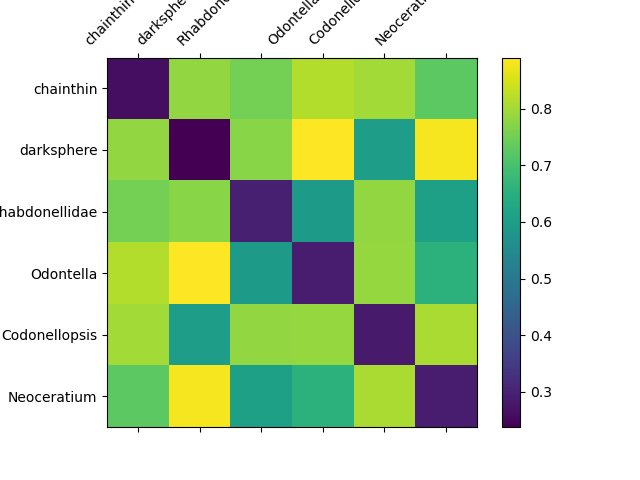
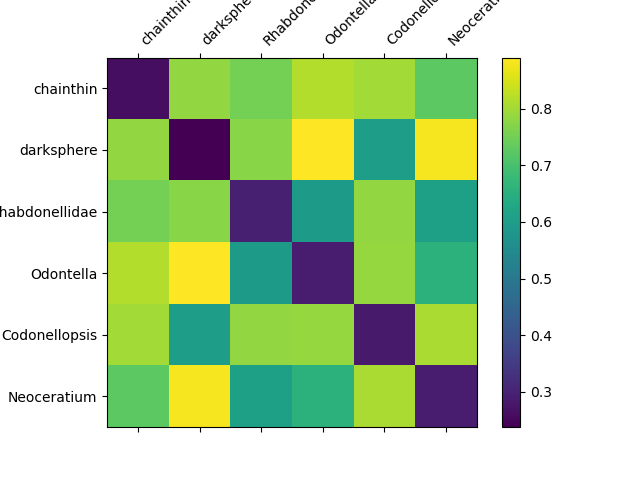
distance images

diff --git a/analyse.py b/analyse.py
@@ -23,7 +23,7 @@ def save_distance_figure(distances, class_names, filename):
     ax = fig.add_subplot(111)
     cax = ax.matshow(distances, interpolation="nearest")
     fig.colorbar(cax)
-    ax.set_xticklabels([''] + class_names, rotation=45, ha="right")
+    ax.set_xticklabels([''] + class_names, rotation=45, ha="left")
     ax.set_yticklabels([''] + class_names)
     plt.savefig(filename)
     plt.cla()
